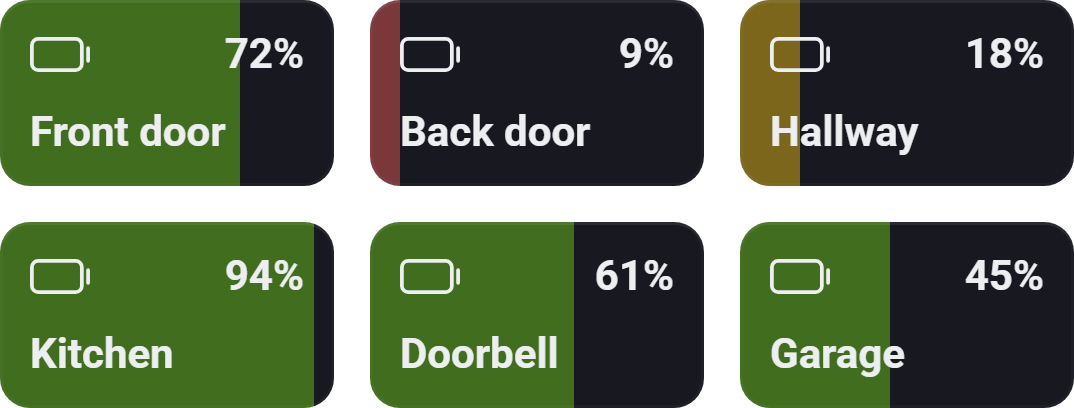
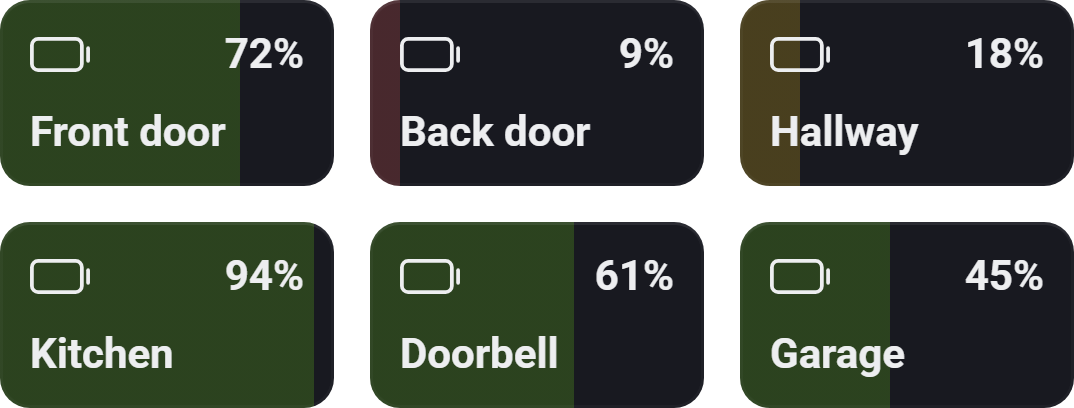
Device Values: Flow colours and percentage fills share one tint
Percentage fills now use the Flow colours' dimmer 22 % tint (was 45 %), and
a Flow-coloured tile keeps its icon in the text colour like a fill tile, so
the two look the same (a user's request).

Claude-Session: https://claude.ai/code/session_01FT2QPu8z8B3ukxUumMgR3z

diff --git a/widgets/values/public/widget.css b/widgets/values/public/widget.css
@@ -12,16 +12,15 @@
   /* Homey's type scale: only these size/line-height pairs are used natively. */
   --vt-fs-small: var(--homey-font-size-small, 14px); --vt-lh-small: var(--homey-line-height-small, 20px);
   --vt-bold: var(--homey-font-weight-bold, 700);
-  /* Percentage fills: Homey's red and green; yellow has no Homey token. Mixed into the tile so the text stays readable. */
+  /* Percentage fills and Flow colours: Homey's red and green; yellow has no Homey token. Mixed into the tile so the text stays readable. */
   --vt-red: var(--homey-color-red, #F25F5C);
   --vt-yellow: #F5C518;
   --vt-green: var(--homey-color-green, #71D51B);
-  --vt-fill-mix: 45%;
+  --vt-fill-mix: 22%;
   /* Tile colours set by a Flow: Homey's tokens; yellow and purple have none (purple is Homey's web-app purple). */
   --vt-orange: var(--homey-color-orange, #F07A1F);
   --vt-blue: var(--homey-color-blue, #2F8DF6);
   --vt-purple: #9033FC;
-  --vt-tint-mix: 22%;
   --vt-radius: 10px; /* Homey's native device tiles, measured from a phone screenshot */
 }
 /* Dark mode: each tile looks like a native device tile, darker than the default widget background. */
@@ -79,16 +78,16 @@ html, body { background: transparent !important; }
 .vt-tile.active { background: color-mix(in srgb, var(--vt-accent) 22%, var(--vt-tile)); }
 .vt-tile.active .vt-icon { color: var(--vt-accent-icon); }
 
-/* A colour set by a Flow (data-color): it wins over the blue on-tint, and a percentage fill takes it instead of its level. */
+/* A colour set by a Flow (data-color), the same tint as a percentage fill and with the icon in the text colour (a user's request):
+   it wins over the blue on-tint, and a percentage fill takes it instead of its level. */
 .vt-tile[data-color="red"] { --vt-color: var(--vt-red); }
 .vt-tile[data-color="orange"] { --vt-color: var(--vt-orange); }
 .vt-tile[data-color="yellow"] { --vt-color: var(--vt-yellow); }
 .vt-tile[data-color="green"] { --vt-color: var(--vt-green); }
 .vt-tile[data-color="blue"] { --vt-color: var(--vt-blue); }
 .vt-tile[data-color="purple"] { --vt-color: var(--vt-purple); }
-.vt-tile[data-color] { background: color-mix(in srgb, var(--vt-color) var(--vt-tint-mix), var(--vt-tile)); }
-/* Mixed with the text colour, so a yellow icon still reads on a light tile. */
-.vt-tile[data-color] .vt-icon { color: color-mix(in srgb, var(--vt-color) 80%, var(--vt-text)); }
+.vt-tile[data-color] { background: color-mix(in srgb, var(--vt-color) var(--vt-fill-mix), var(--vt-tile)); }
+.vt-tile[data-color] .vt-icon { color: var(--vt-text); }
 .vt-tile.filled[data-color] { --vt-level: var(--vt-color);
   background: linear-gradient(to right, color-mix(in srgb, var(--vt-level) var(--vt-fill-mix), var(--vt-tile)) var(--vt-fill), var(--vt-tile) var(--vt-fill)); }
 

diff --git a/CLAUDE.md b/CLAUDE.md
@@ -201,10 +201,10 @@ How this project uses it:
 - Settings: `slot1`…`slot6`, autocompletes (`app.ts` registers them with `listSlots()`) with a `None` item first (id `none`, `values.none`; it empties the tile, since the widget skips ids without a colon), then every device × capability, named `Device · Title`, described by zone and units, with the id `<deviceId>:<capabilityId>` (`parseSlot()` splits on the first colon). The same pair may fill several tiles; the widget keys its tiles by slot and position. Each slot has an optional `nameN` text setting (`  – Name`) that replaces the device name (`opts.names`, by position).
 - Shown capabilities (`valueCaps()`): `number`, `boolean`, `enum` and `string` with `getable !== false`.
 - Format (`formatValue()` in `widget.js`, also `window.formatCapabilityValue`): numbers in the device locale to `decimals` (else at most 1), with the units (no space before `°…` and `%`); booleans `On`/`Off`; enums by their value title; `null` → `–`. A boolean that is `true` gets Quick Actions' blue tint.
-- Percentage fill (`percentFill` checkbox, off by default; `redBelow` 10 and `yellowBelow` 20, `number` settings): a `%` number (`percentOf()`) fills the tile from the left to its value (`.filled`, `--vt-fill`, a hard-stop `linear-gradient`), red/yellow/green (`data-level`, `levelOf()`: below red → red, below yellow → yellow) mixed 45 % into the tile so the text stays readable. Homey's red and green tokens; yellow (`#F5C518`) has no token.
+- Percentage fill (`percentFill` checkbox, off by default; `redBelow` 10 and `yellowBelow` 20, `number` settings): a `%` number (`percentOf()`) fills the tile from the left to its value (`.filled`, `--vt-fill`, a hard-stop `linear-gradient`), red/yellow/green (`data-level`, `levelOf()`: below red → red, below yellow → yellow) mixed 22 % into the tile (`--vt-fill-mix`, the Flow colours' tint; it was 45 % until a user asked for the two to match). Homey's red and green tokens; yellow (`#F5C518`) has no token.
 - `dim` is `%` with `min: 0, max: 1` (verified on the Homey, 2026-10-05), so a 0–1 `%` range is scaled to 0–100, for the text too. The service sends `min`/`max` for that.
 - Icon: the capability's own `iconObj` (`fetchSvgIcon()`), else a built-in glyph by base id (thermometer, drop, bolt, sun, cloud, battery, bell for `alarm_*`, power, padlock, bulb for `dim`, wave, gauge as the fallback). Homey's standard capability icons aren't public like the device library (`my.homey.app/img/capabilities/…` doesn't exist, checked 2026-10-05).
-- Tile colour from a Flow (a user's request: a fridge blue below 5 °C and red above, internet checks green/red): the action card `values_set_color` (`.homeycompose/flow/actions/`, the app's only Flow card), "Set the tile colour of [[slot]] to [[color]]". `slot` is an autocomplete (`listColorSlots()`: `listSlots()` without `None`), `color` is `default` (resets it), `red`, `orange`, `yellow`, `green`, `blue` or `purple`. A Flow can't address a widget instance, so the colour belongs to the device value: every tile showing it, in any Device Values widget. `setColor()` keeps it in the app setting `valueColors` (`{'<deviceId>:<capabilityId>': colour}`, so it survives restarts) and sends realtime `values:color` `{deviceId, capabilityId, color | null}`. `/state` entries carry `color` only when one is set. The widget sets `data-color` on the tile: a 22 % tint like `.active` (it wins over that), the icon mixed 80 % with the text colour (so yellow reads in light mode), and with `percentFill` the fill takes the colour instead of its level. Orange and blue use Homey's tokens; purple is `#9033FC` (the electricity widget's), yellow `#F5C518`.
+- Tile colour from a Flow (a user's request: a fridge blue below 5 °C and red above, internet checks green/red): the action card `values_set_color` (`.homeycompose/flow/actions/`, the app's only Flow card), "Set the tile colour of [[slot]] to [[color]]". `slot` is an autocomplete (`listColorSlots()`: `listSlots()` without `None`), `color` is `default` (resets it), `red`, `orange`, `yellow`, `green`, `blue` or `purple`. A Flow can't address a widget instance, so the colour belongs to the device value: every tile showing it, in any Device Values widget. `setColor()` keeps it in the app setting `valueColors` (`{'<deviceId>:<capabilityId>': colour}`, so it survives restarts) and sends realtime `values:color` `{deviceId, capabilityId, color | null}`. `/state` entries carry `color` only when one is set. The widget sets `data-color` on the tile: the colour mixed 22 % into the tile, the same tint as the percentage fill, with the icon in the text colour like the fill's (a user asked for the two to match), winning over `.active`, and with `percentFill` the fill takes the colour instead of its level. Orange and blue use Homey's tokens; purple is `#9033FC` (the electricity widget's), yellow `#F5C518`.
 - Endpoint: `GET /state?slots=a:cap,b:cap`, one entry per valid slot (`{deviceId, capabilityId, name, capability: {title, type, units, decimals, values, icon}, value}` or `{deviceId, capabilityId, missing: true}`). `/state` re-reads tracked slots (renames, a removed capability → `missing`).
 - Realtime: `values:state` `{deviceId, capabilityId, value}`. Tracking is per slot, dropped after 10 min without `/state`; widgets re-fetch every 5 min. A failed refresh keeps the tiles, as in Quick Actions.
 
